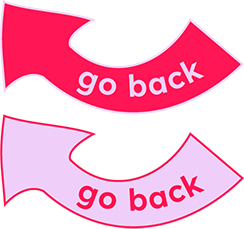
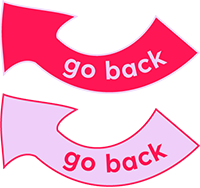
edits

diff --git a/css/style.css b/css/style.css
@@ -3,13 +3,6 @@ body{
     margin:0;
     padding:0;
 }
-/*
-.errandbg{
-    background-image:url(../img/bgforfit.png);
-    background-size: auto;
-    background-repeat: no-repeat;
-    background-position:right bottom;
-} can delete? */
 
 .column{
     float:left;
@@ -72,14 +65,14 @@ body{
 
 .game{
     width:60%;
-    display:flex;
-    align-items:center;
+    /*display:flex;
+    align-items:center;*/
     padding:4.3%;
     border-radius: 12%;
 }
-.game:hover{
+/*.game:hover{
     transform: scale(1.1);
-}
+}*/
 
 a{
     text-decoration: none;
@@ -91,6 +84,7 @@ nav{
     justify-content: space-between;
     height:14vh;
 }
+
 
 #more{
     font-family: "Lexend", sans-serif;
@@ -212,44 +206,44 @@ p{
 
 .goback{
     background-image: url(../img/gobackcombined.png);
-    background-position:0px 0px;
+    background-position:0% 0%;
     margin:auto;
     margin-top:60%;
-    height:115px;
-    width: 245px;
-    background-size: 30vh;
+    height:94px;
+    width: 200px;
+    background-repeat:no-repeat;
 }
 .goback:hover{
     background-image: url(../img/gobackcombined.png);
-    background-position:0px -98%;
+    background-position:0px 100%;
 }
 
 #goback{
     background-image: url(../img/gobackcombined.png);
-    background-position:0px 0px;
+    background-position:0% 0%;
     margin:auto;
     margin-top:5%;
-    height:115px;
-    width: 245px;
-    background-size: 30vh;
+    height:94px;
+    width: 200px;
+    background-repeat:no-repeat;
 }
 #goback:hover{
     background-image: url(../img/gobackcombined.png);
-    background-position:0px -98%;
+    background-position:0% 100%;
 }
 
 #gobacks{
     background-image: url(../img/gobackcombined.png);
-    background-position:0px 0px;
+    background-position:0% 0%;
     margin:auto;
     margin-top:40%;
-    height:115px;
-    width: 245px;
-    background-size: 30vh;
+    height: 94px;
+    width: 200px;
+    background-repeat:no-repeat;
 }
 #gobacks:hover{
     background-image: url(../img/gobackcombined.png);
-    background-position:0px -115px;
+    background-position:0% 100%;
 }
 
 .backleft{
@@ -261,16 +255,17 @@ p{
 
 #again{
     background-image: url(../img/playagain.png);
-    background-position:0px 0px;
+    background-position:0% 0%;
     margin:auto;
     margin-top:5%;
     height:80px;
     width: 245px;
-    background-size: 30vh;
+    background-size:cover;
+    background-repeat:no-repeat;
 }
 #again:hover{
     background-image: url(../img/playagain.png);
-    background-position:0px -80px;
+    background-position:0% 100%;
 }
 
 .options{

diff --git a/index.html b/index.html
@@ -12,7 +12,7 @@
         <link rel="preconnect" href="https://fonts.gstatic.com" crossorigin>
         <link href="https://fonts.googleapis.com/css2?family=Lexend&family=Peralta&display=swap" rel="stylesheet">
     </head>
-    <body>
+    <body">
         <nav>
             <h1>bellagogames.com</h1>
         </nav>
@@ -25,18 +25,18 @@
             </div>
             <div id="middle">
                 <div>
-                    <img class="new" src="img/manicureedited.png" alt="bella's manicure">
+                    <img class="new" src="img/lockedmani.png" alt="bella's manicure">
                 </div>
                 <div>
-                    <img class="new" src="img/bake.png" alt="bake dessert">
+                    <img class="new" src="img/lockedbake.png" alt="bake dessert">
                 </div>
             </div>
             <div id="rights">
                 <div>
-                    <img class="new" src="img/morningmakeup.png" alt="morning makeup">
+                    <img class="new" src="img/lockedmakeup.png" alt="morning makeup">
                 </div>
                 <div>
-                    <img class="new" src="img/cutmyhair.png" alt="cut bella's hair">
+                    <img class="new" src="img/lockedhai.png" alt="cut bella's hair">
                 </div>
             </div>
         </div>

diff --git a/tops.html b/tops.html
@@ -24,16 +24,16 @@
         <div class="row">
             <div class="column left">
                 <div class="leftcenter">
-                    <img class="game" src="img/manicureedited.png" alt="bella's manicure">
-                </div>  
-                <div class="leftcenter">  
-                    <img class="game" src="img/morningmakeup.png" alt="morning makeup">
+                    <img class="game" src="img/lockedmani.png" alt="bella's manicure">
                 </div>
                 <div class="leftcenter">
-                    <img class="game" src="img/bake.png" alt="bake dessert">
+                    <img class="game" src="img/lockedmakeup.png" alt="morning makeup">
                 </div>
                 <div class="leftcenter">
-                    <img class="game" src="img/cutmyhair.png" alt="cut bella's hair">
+                    <img class="game" src="img/lockedbake.png" alt="bake dessert">
+                </div>
+                <div class="leftcenter">
+                    <img class="game" src="img/lockedhai.png" alt="cut bella's hair">
                 </div>
             </div>
 <!--change everything in the middle and right columns-->

diff --git a/addons.html b/addons.html
@@ -24,16 +24,16 @@
         <div class="row">
             <div class="column left">
                 <div class="leftcenter">
-                    <img class="game" src="img/manicureedited.png" alt="bella's manicure">
+                    <img class="game" src="img/lockedmani.png" alt="bella's manicure">
                 </div>
                 <div class="leftcenter">
-                    <img class="game" src="img/morningmakeup.png" alt="morning makeup">
+                    <img class="game" src="img/lockedmakeup.png" alt="morning makeup">
                 </div>
                 <div class="leftcenter">
-                    <img class="game" src="img/bake.png" alt="bake dessert">
+                    <img class="game" src="img/lockedbake.png" alt="bake dessert">
                 </div>
                 <div class="leftcenter">
-                    <img class="game" src="img/cutmyhair.png" alt="cut bella's hair">
+                    <img class="game" src="img/lockedhai.png" alt="cut bella's hair">
                 </div>
             </div>
 <!--change everything in the middle and right columns-->

diff --git a/addonsfive.html b/addonsfive.html
@@ -25,16 +25,16 @@
         <div class="row">
             <div class="column left">
                 <div class="leftcenter">
-                    <img class="game" src="img/manicureedited.png" alt="bella's manicure">
+                    <img class="game" src="img/lockedmani.png" alt="bella's manicure">
                 </div>
                 <div class="leftcenter">
-                    <img class="game" src="img/morningmakeup.png" alt="morning makeup">
+                    <img class="game" src="img/lockedmakeup.png" alt="morning makeup">
                 </div>
                 <div class="leftcenter">
-                    <img class="game" src="img/bake.png" alt="bake dessert">
+                    <img class="game" src="img/lockedbake.png" alt="bake dessert">
                 </div>
                 <div class="leftcenter">
-                    <img class="game" src="img/cutmyhair.png" alt="cut bella's hair">
+                    <img class="game" src="img/lockedhai.png" alt="cut bella's hair">
                 </div>
             </div>
 <!--change everything in the middle and right columns-->

diff --git a/addonsfour.html b/addonsfour.html
@@ -25,16 +25,16 @@
         <div class="row">
             <div class="column left">
                 <div class="leftcenter">
-                    <img class="game" src="img/manicureedited.png" alt="bella's manicure">
+                    <img class="game" src="img/lockedmani.png" alt="bella's manicure">
                 </div>
                 <div class="leftcenter">
-                    <img class="game" src="img/morningmakeup.png" alt="morning makeup">
+                    <img class="game" src="img/lockedmakeup.png" alt="morning makeup">
                 </div>
                 <div class="leftcenter">
-                    <img class="game" src="img/bake.png" alt="bake dessert">
+                    <img class="game" src="img/lockedbake.png" alt="bake dessert">
                 </div>
                 <div class="leftcenter">
-                    <img class="game" src="img/cutmyhair.png" alt="cut bella's hair">
+                    <img class="game" src="img/lockedhai.png" alt="cut bella's hair">
                 </div>
             </div>
 <!--change everything in the middle and right columns-->

diff --git a/addonsseven.html b/addonsseven.html
@@ -24,16 +24,16 @@
         <div class="row">
             <div class="column left">
                 <div class="leftcenter">
-                    <img class="game" src="img/manicureedited.png" alt="bella's manicure">
+                    <img class="game" src="img/lockedmani.png" alt="bella's manicure">
                 </div>
                 <div class="leftcenter">
-                    <img class="game" src="img/morningmakeup.png" alt="morning makeup">
+                    <img class="game" src="img/lockedmakeup.png" alt="morning makeup">
                 </div>
                 <div class="leftcenter">
-                    <img class="game" src="img/bake.png" alt="bake dessert">
+                    <img class="game" src="img/lockedbake.png" alt="bake dessert">
                 </div>
                 <div class="leftcenter">
-                    <img class="game" src="img/cutmyhair.png" alt="cut bella's hair">
+                    <img class="game" src="img/lockedhai.png" alt="cut bella's hair">
                 </div>
             </div>
 <!--change everything in the middle and right columns-->

diff --git a/pants.html b/pants.html
@@ -23,16 +23,16 @@
         <div class="row">
             <div class="column left">
                 <div class="leftcenter">
-                    <img class="game" src="img/manicureedited.png" alt="bella's manicure">
+                    <img class="game" src="img/lockedmani.png" alt="bella's manicure">
                 </div>
                 <div class="leftcenter">
-                    <img class="game" src="img/morningmakeup.png" alt="morning makeup">
+                    <img class="game" src="img/lockedmakeup.png" alt="morning makeup">
                 </div>
                 <div class="leftcenter">
-                    <img class="game" src="img/bake.png" alt="bake dessert">
+                    <img class="game" src="img/lockedbake.png" alt="bake dessert">
                 </div>
                 <div class="leftcenter">
-                    <img class="game" src="img/cutmyhair.png" alt="cut bella's hair">
+                    <img class="game" src="img/lockedhai.png" alt="cut bella's hair">
                 </div>
             </div>
 <!--change everything in the middle and right columns-->

diff --git a/shoes.html b/shoes.html
@@ -24,16 +24,16 @@
         <div class="row">
             <div class="column left">
                 <div class="leftcenter">
-                    <img class="game" src="img/manicureedited.png" alt="bella's manicure">
+                    <img class="game" src="img/lockedmani.png" alt="bella's manicure">
                 </div>
                 <div class="leftcenter">
-                    <img class="game" src="img/morningmakeup.png" alt="morning makeup">
+                    <img class="game" src="img/lockedmakeup.png" alt="morning makeup">
                 </div>
                 <div class="leftcenter">
-                    <img class="game" src="img/bake.png" alt="bake dessert">
+                    <img class="game" src="img/lockedbake.png" alt="bake dessert">
                 </div>
                 <div class="leftcenter">
-                    <img class="game" src="img/cutmyhair.png" alt="cut bella's hair">
+                    <img class="game" src="img/lockedhai.png" alt="cut bella's hair">
                 </div>
             </div>
 <!--change everything in the middle and right columns-->

diff --git a/shoesfour.html b/shoesfour.html
@@ -24,16 +24,16 @@
         <div class="row">
             <div class="column left">
                 <div class="leftcenter">
-                    <img class="game" src="img/manicureedited.png" alt="bella's manicure">
+                    <img class="game" src="img/lockedmani.png" alt="bella's manicure">
                 </div>
                 <div class="leftcenter">
-                    <img class="game" src="img/morningmakeup.png" alt="morning makeup">
+                    <img class="game" src="img/lockedmakeup.png" alt="morning makeup">
                 </div>
                 <div class="leftcenter">
-                    <img class="game" src="img/bake.png" alt="bake dessert">
+                    <img class="game" src="img/lockedbake.png" alt="bake dessert">
                 </div>
                 <div class="leftcenter">
-                    <img class="game" src="img/cutmyhair.png" alt="cut bella's hair">
+                    <img class="game" src="img/lockedhai.png" alt="cut bella's hair">
                 </div>
             </div>
 <!--change everything in the middle and right columns-->

diff --git a/shoesthree.html b/shoesthree.html
@@ -24,16 +24,16 @@
         <div class="row">
             <div class="column left">
                 <div class="leftcenter">
-                    <img class="game" src="img/manicureedited.png" alt="bella's manicure">
+                    <img class="game" src="img/lockedmani.png" alt="bella's manicure">
                 </div>
                 <div class="leftcenter">
-                    <img class="game" src="img/morningmakeup.png" alt="morning makeup">
+                    <img class="game" src="img/lockedmakeup.png" alt="morning makeup">
                 </div>
                 <div class="leftcenter">
-                    <img class="game" src="img/bake.png" alt="bake dessert">
+                    <img class="game" src="img/lockedbake.png" alt="bake dessert">
                 </div>
                 <div class="leftcenter">
-                    <img class="game" src="img/cutmyhair.png" alt="cut bella's hair">
+                    <img class="game" src="img/lockedhai.png" alt="cut bella's hair">
                 </div>
             </div>
 <!--change everything in the middle and right columns-->

diff --git a/shoestwo.html b/shoestwo.html
@@ -24,16 +24,16 @@
         <div class="row">
             <div class="column left">
                 <div class="leftcenter">
-                    <img class="game" src="img/manicureedited.png" alt="bella's manicure">
+                    <img class="game" src="img/lockedmani.png" alt="bella's manicure">
                 </div>
                 <div class="leftcenter">
-                    <img class="game" src="img/morningmakeup.png" alt="morning makeup">
+                    <img class="game" src="img/lockedmakeup.png" alt="morning makeup">
                 </div>
                 <div class="leftcenter">
-                    <img class="game" src="img/bake.png" alt="bake dessert">
+                    <img class="game" src="img/lockedbake.png" alt="bake dessert">
                 </div>
                 <div class="leftcenter">
-                    <img class="game" src="img/cutmyhair.png" alt="cut bella's hair">
+                    <img class="game" src="img/lockedhai.png" alt="cut bella's hair">
                 </div>
             </div>
 <!--change everything in the middle and right columns-->
